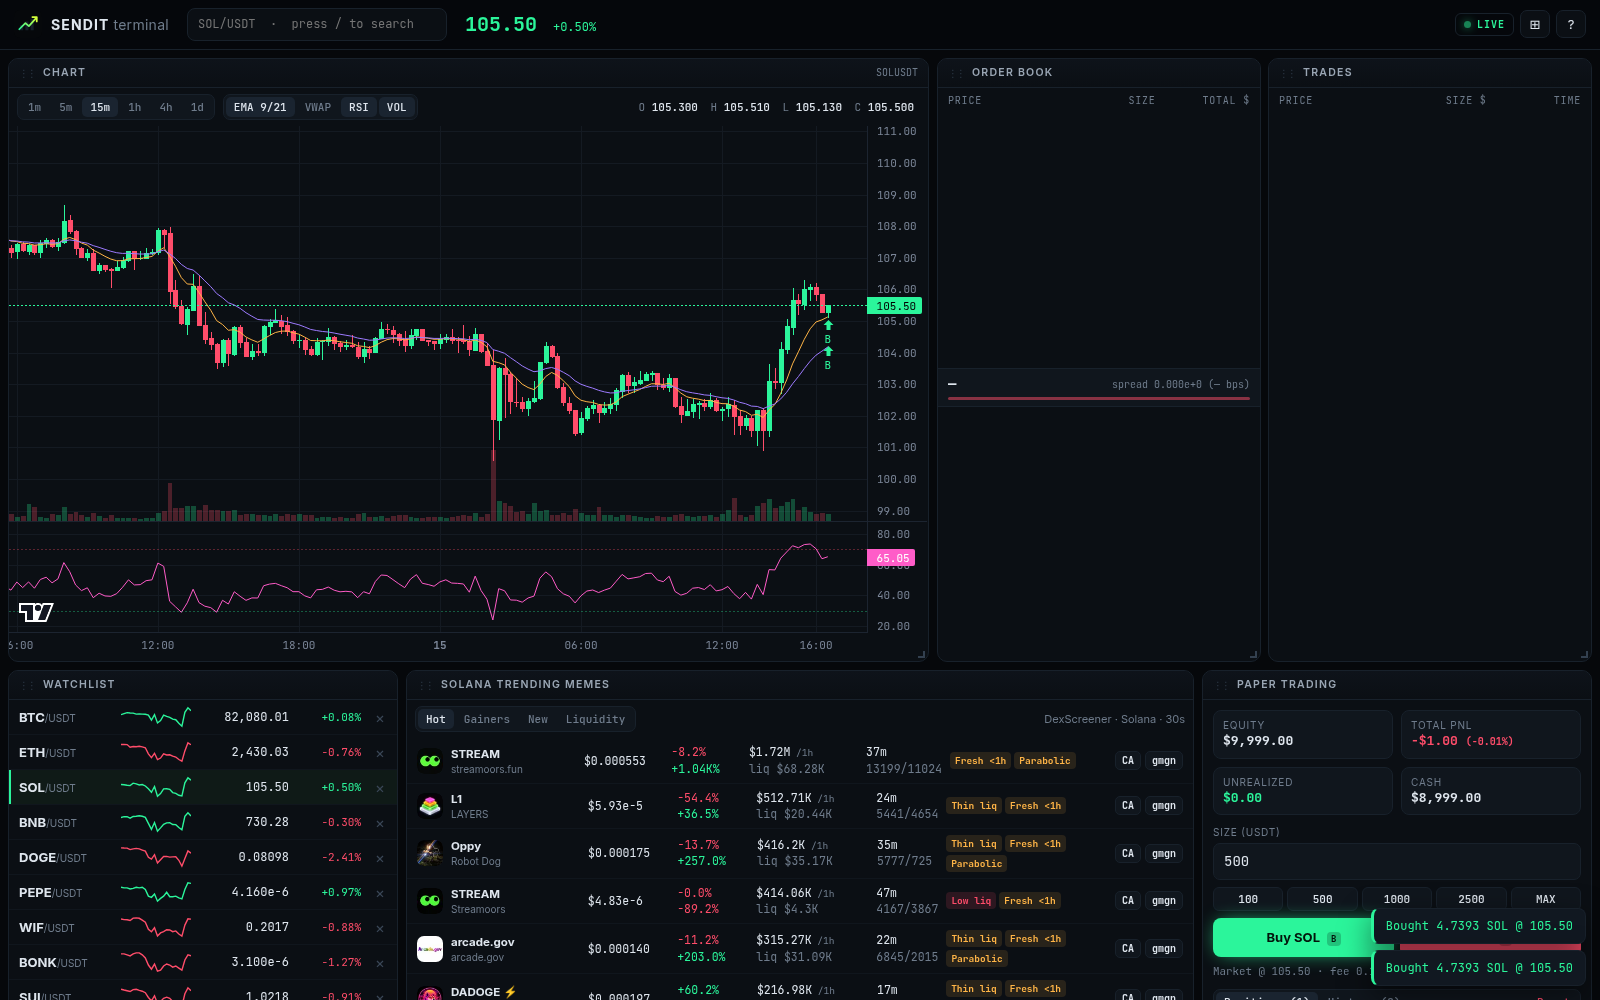
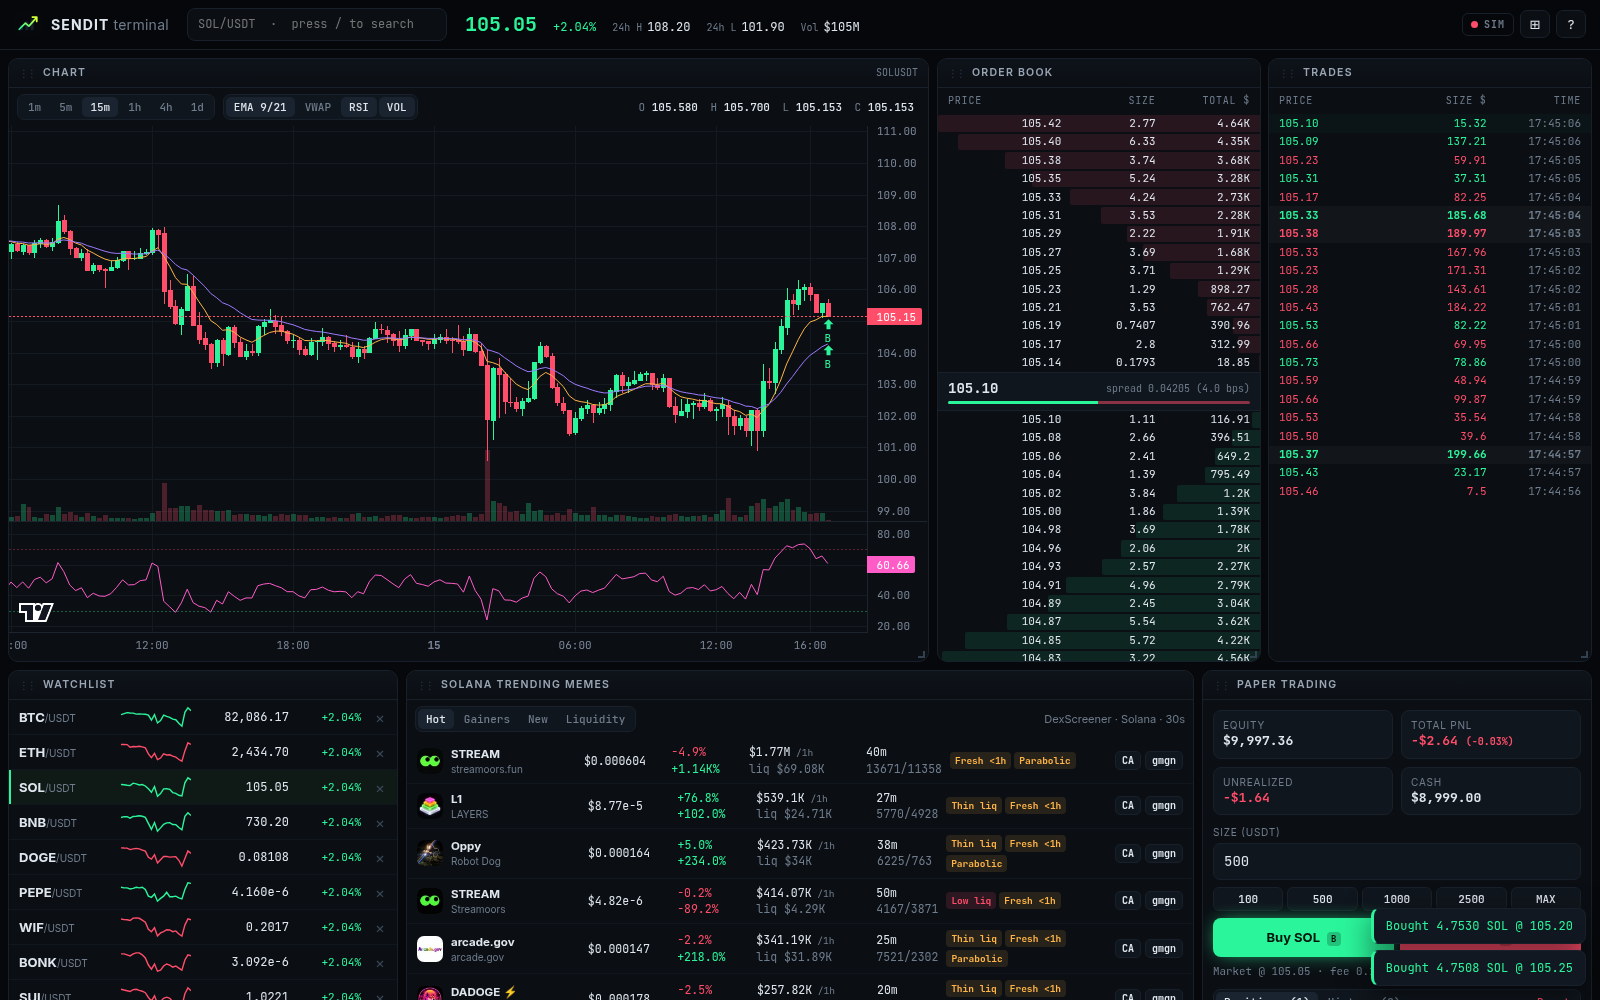
Per-stream simulated fallback when a live stream stays silent

diff --git a/src/lib/binance.ts b/src/lib/binance.ts
@@ -1,3 +1,4 @@
+import { getPrice } from './store'
 // Binance public market data (keyless). Falls back to the binance.vision mirror, then to a local simulator.
 const REST = ['https://api.binance.com', 'https://data-api.binance.vision']
 const WS = ['wss://stream.binance.com:9443/stream', 'wss://data-stream.binance.vision/stream']
@@ -59,7 +60,7 @@ class Stream {
     const guard = setTimeout(() => { if (!this.got) ws.close() }, 6000)
     ws.onmessage = (e) => {
       if (!this.got) { this.got = true; this.fails = 0; this.backoff = 1000; this.set('live') }
-      const m = JSON.parse(e.data); if (m.stream) this.handlers.get(m.stream)?.forEach((h) => h(m.data))
+      const m = JSON.parse(e.data); if (m.stream) { this.seen.set(m.stream, Date.now()); this.handlers.get(m.stream)?.forEach((h) => h(m.data)) }
     }
     ws.onclose = () => {
       clearTimeout(guard); if (this.ws !== ws) return
@@ -70,10 +71,10 @@ class Stream {
     ws.onerror = () => { /* onclose follows */ }
   }
   private simT = 0
+  private seen = new Map<string, number>() // last message (or subscribe) time per stream
   private set(s: Stream['status']) {
     this.status = s; this.onStatus?.(s)
-    if (s === 'sim' && !this.simT) this.simT = window.setInterval(() => this.simTick(), 500)
-    if (s === 'live' && this.simT) { clearInterval(this.simT); this.simT = 0 }
+    if (!this.simT) this.simT = window.setInterval(() => this.simTick(), 500)
   }
   /** Emit Binance-shaped synthetic messages for every subscribed stream. */
   private simP = new Map<string, number>()
@@ -81,8 +82,9 @@ class Stream {
   private simTick() {
     const now = Date.now()
     for (const [key, hs] of this.handlers) {
+      if (this.status !== 'sim' && now - (this.seen.get(key) ?? now) < 10000) continue // stream is live
       const [sl, kind] = key.split('@'), sym = sl.toUpperCase()
-      let p = this.simP.get(sym) ?? SEED[sym] ?? 10
+      let p = (this.status === 'live' ? getPrice(sym)?.p : undefined) ?? this.simP.get(sym) ?? getPrice(sym)?.p ?? SEED[sym] ?? 10
       p *= 1 + (Math.random() - 0.5) * 0.0015; this.simP.set(sym, p)
       let d: unknown
       if (kind.startsWith('kline')) { const iv = kind.split('_')[1] as Interval, s = SEC[iv] * 1000, t = Math.floor(now / s) * s; d = { k: { t, o: p, h: p * 1.0005, l: p * 0.9995, c: p, v: Math.random() * 5, x: false } } }
@@ -94,7 +96,7 @@ class Stream {
   }
   sub(stream: string, h: Handler) {
     let set = this.handlers.get(stream)
-    if (!set) { set = new Set(); this.handlers.set(stream, set); this.schedule() }
+    if (!set) { set = new Set(); this.handlers.set(stream, set); this.seen.set(stream, Date.now()); this.schedule(); if (!this.simT) this.simT = window.setInterval(() => this.simTick(), 500) }
     set.add(h)
     return () => { set!.delete(h); if (!set!.size && this.handlers.get(stream) === set) { this.handlers.delete(stream); this.schedule(1000) } }
   }
